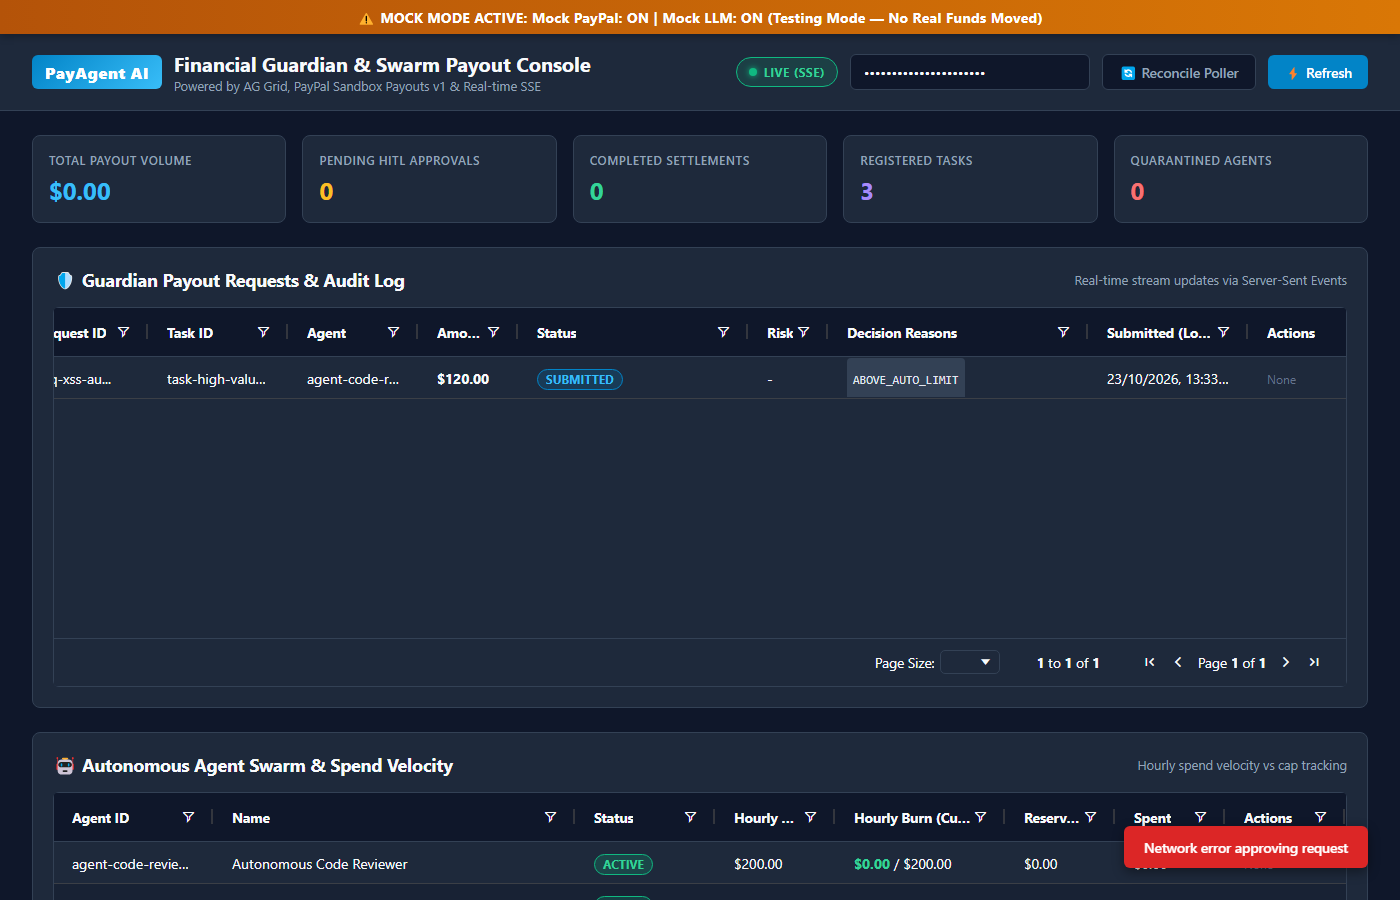
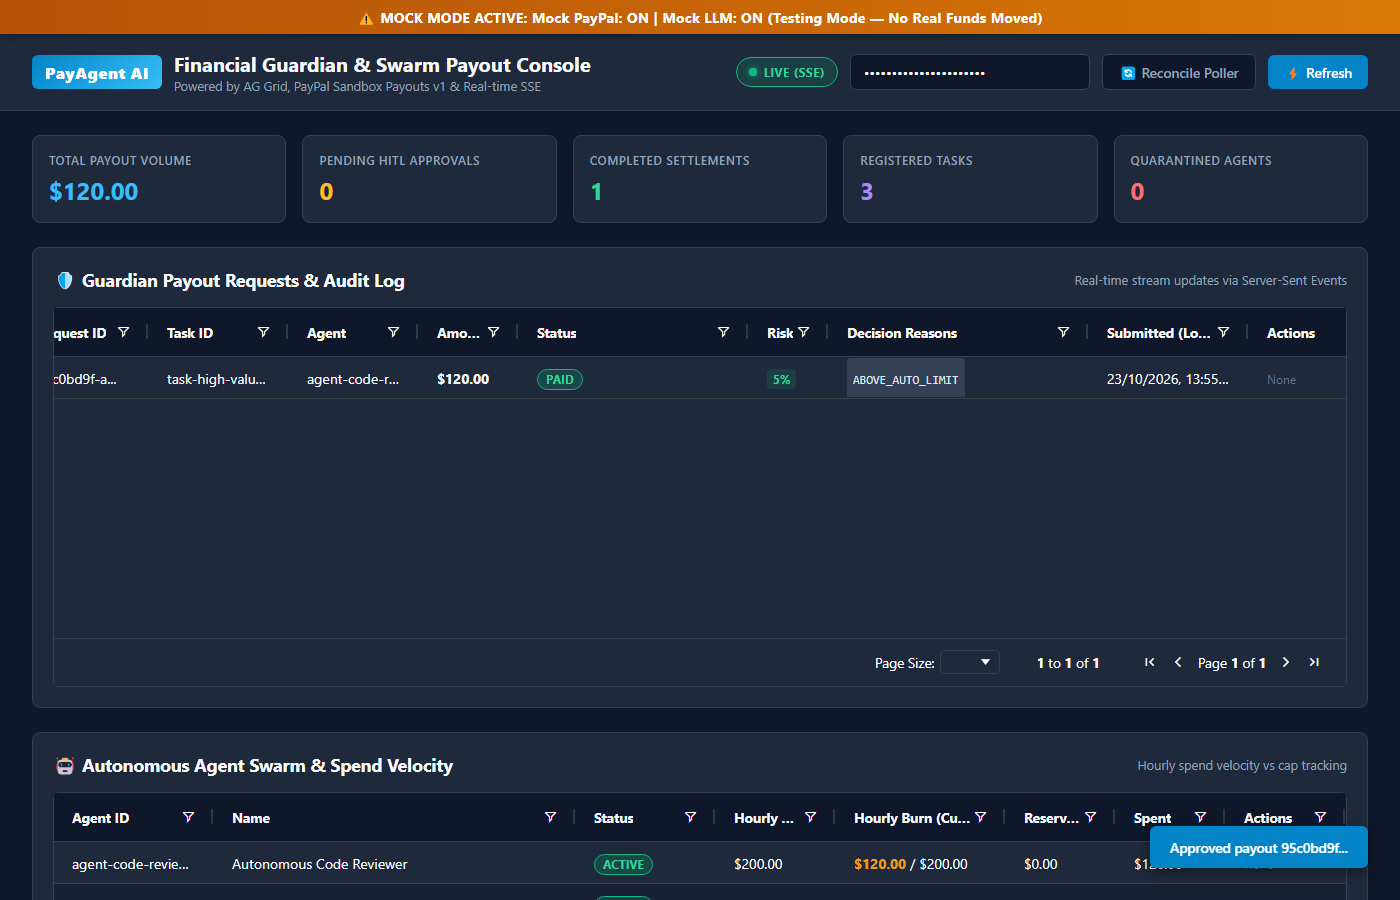
docs(milestone): close M3.2

diff --git a/MILESTONE.md b/MILESTONE.md
@@ -17,7 +17,7 @@
   - Webhooks Hardened (P0 & P1 Resolved): Unsigned webhooks in live mode rejected with HTTP 400 `WEBHOOK_UNVERIFIED` (mock mode only may bypass). Unverified webhooks do not count for deduplication, ensuring failed signature deliveries never block PayPal retries. Monotonic FSM progression enforced.
   - Asynchronous Gate 2 (merged from `feat/async-gate2`): Gate 1 returns 202 `RECEIVED`; the LLM review runs in the background and decides via CAS; a sweeper resumes orphaned reviews after restart. Tasks lock at Gate 1 (one task, one payout), fixing a double-payment path. See ARCHITECTURE.md §5.6.
   - End-to-End Rehearsal (live PayPal sandbox + real Gemini, `--scenario all`): happy $25 -> 202 `RECEIVED` -> Gate 2 `AUTO_APPROVED` in 11.7s -> `SUBMITTED` -> poller `PAID`. Request `af6ceb26-942b-4e10-842f-df0ce1afe21f`, batch `UKC87D9JZ2ZDU`, item `XT6XFF4T5HPZA`; reviewer confirmed `SUCCESS` $25.00 directly against PayPal, `sender_batch_id` matches the request. Tamper -> 422 `OVER_TASK_BUDGET` (no LLM call). Escalate $120 -> `PENDING_HUMAN_APPROVAL` in 44.9s.
-- **Next Up**: M3.2 (Operator Console).
+- **Next Up**: M3.5 (Render deploy).
 
 ---
 
@@ -148,7 +148,8 @@ Reviewer verification: 54/54 tests on a clean venv; mutation testing confirmed c
 ### Acceptance Criteria
 - [x] M3.1 SSE stream (publish events only after the DB commit succeeds, never before): `GET /api/v1/events` emits payout-request, task, and agent changes (including `RECEIVED` -> decision); the console switches from 2s polling to SSE, with polling as fallback on disconnect.
   - Done & approved (reviewer, 2026-10-22, commits 0ba7f04, 2135fe4): in-process broadcaster (bounded queues, slow-client drop, sync unsubscribe), GET /api/v1/events with ?token= (UTF-8-safe compare, access-log redaction), post-commit publishing on every write path, operator approve writes APPROVED then the write-ahead SUBMITTED before PayPal, poller holds no transaction during PayPal calls (incl. row 1 and P3 recovery).
-- [ ] M3.2 Console:
+- [x] M3.2 Console:
+  - Done & approved (reviewer, 2026-10-23, commits a127a71, afee2a9, 70fc334): AG Grid Community 32.2.0 with SRI hashes, EventSource exponential backoff reconnect on non-200 with fallback polling, auth check halts on 401, all inline onclick handlers eliminated (delegated data-action listeners), ID regex validation ^[A-Za-z0-9._:-]{1,64}$ on TaskCreate/AgentCreate, refresh coalescing (250ms trailing debounce, <= 8 REST calls per happy submission), full 1400px readability for statuses and decision reasons, HITL modal review and approval flow.
   - Payout-requests grid with status and reason-code chips, risk badge, and an "in review" state for `RECEIVED`
   - Approve/reject buttons that show the deliverables and LLM reasoning before confirming
   - Agents grid with hourly burn against the cap and quarantine status (with release action); task list
